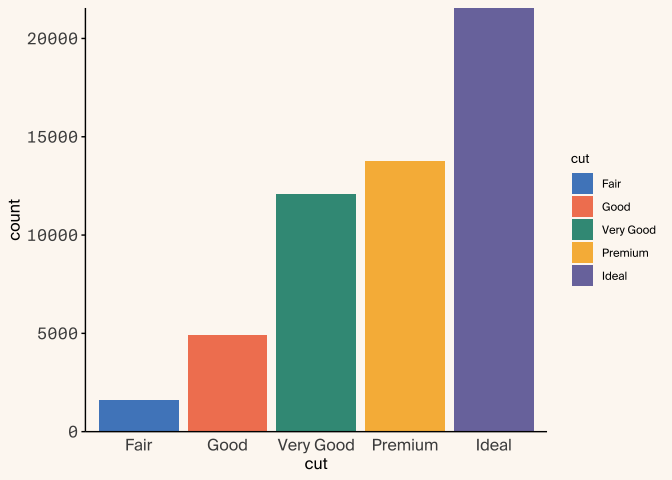
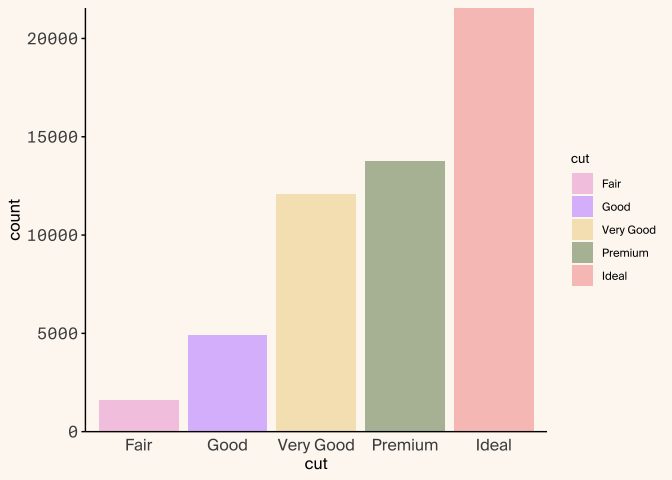
rev palette, separate out palette and scale functions:

Changed region(s): [[0.125, 0.0, 0.8125, 0.9062], [0.8438, 0.3438, 0.9062, 0.5938]]

diff --git a/README.md b/README.md
@@ -50,7 +50,7 @@ categorical data, you can specify if the axis is categorical with:
 ggplot(data=diamonds, aes(x=cut, fill=cut)) +
   geom_bar() +
   theme_arcadia(x_axis_type = "categorical") +
-  scale_fill_arcadia("accent") +
+  scale_fill_arcadia("accent", reverse = TRUE) +
   scale_y_continuous(expand=c(0,0)) # removes whitespace between axis and bars
 ```
 
